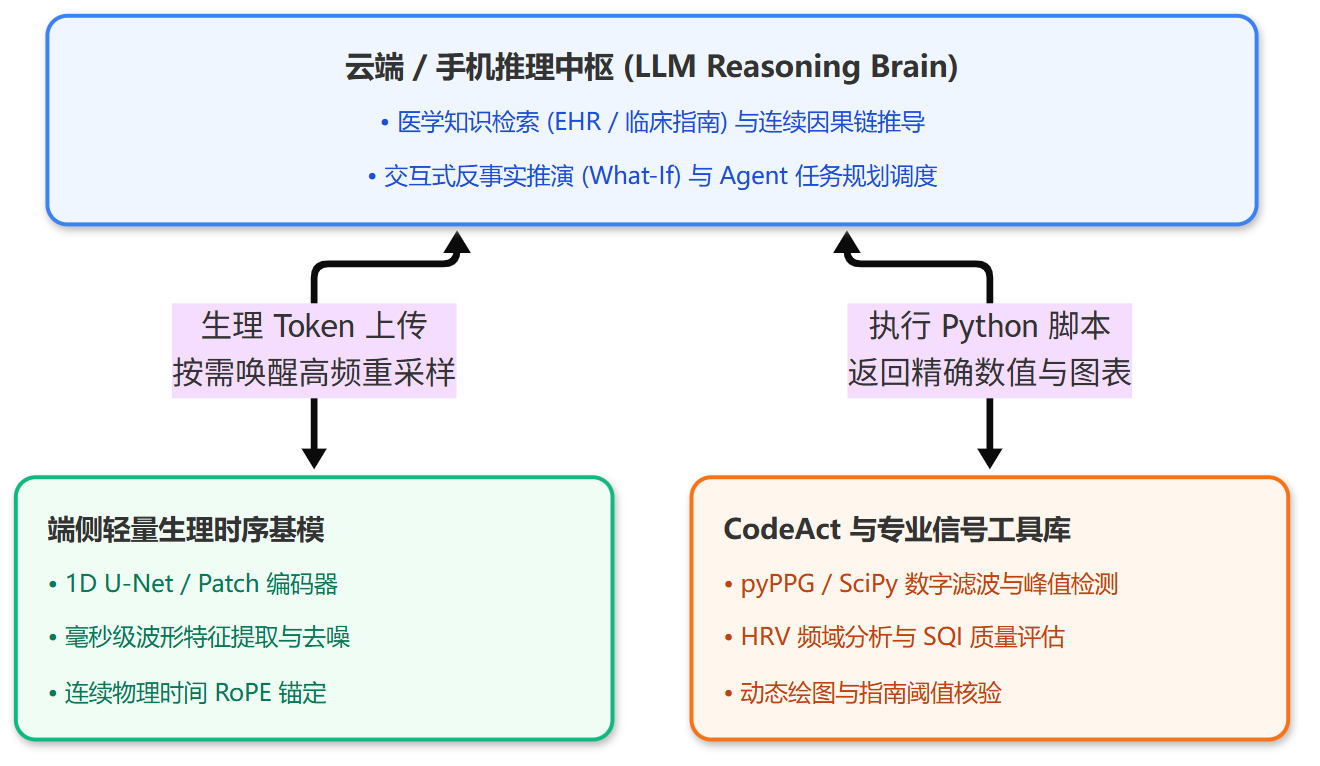
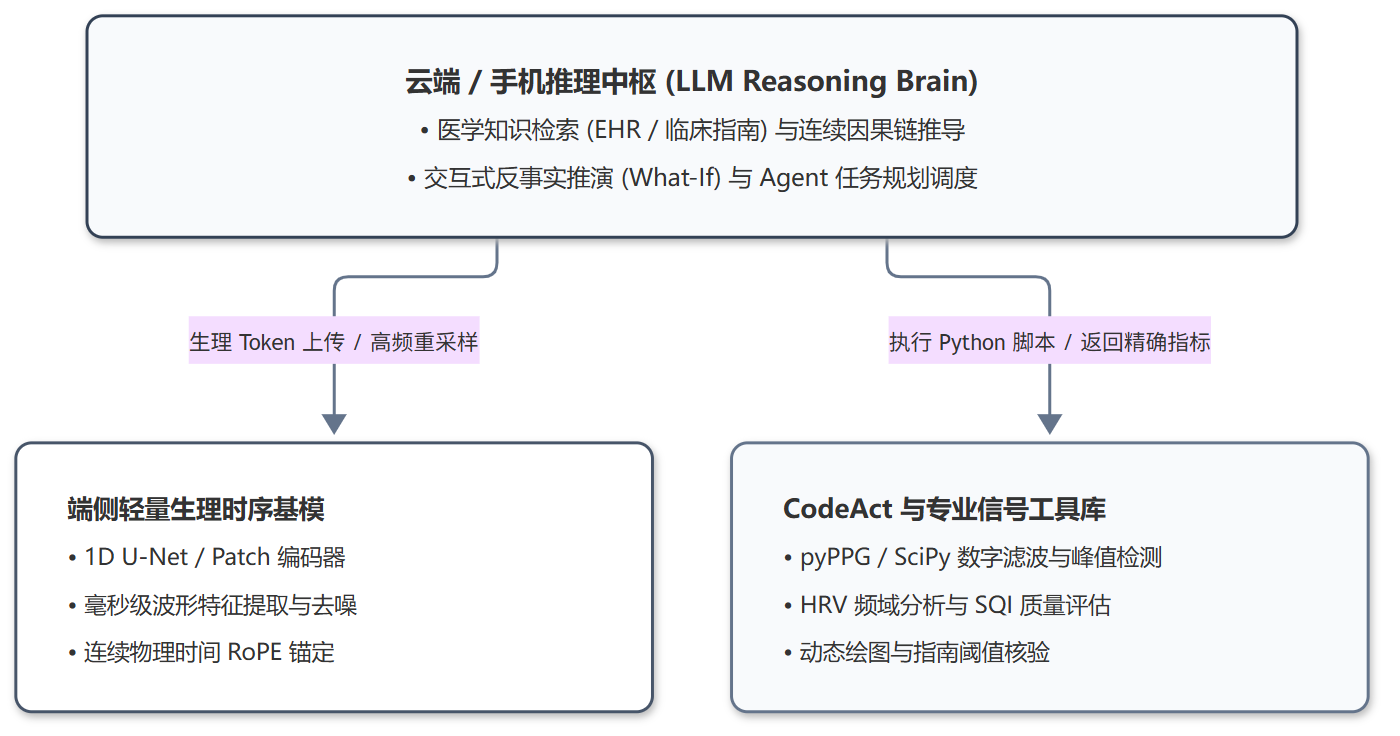
style: 优化全景架构图为学术扁平布局并修正模型资源链接列

Changed region(s): [[0.0, 0.0, 0.9939, 0.9688]]

diff --git a/scripts/render_diagrams.py b/scripts/render_diagrams.py
@@ -1,10 +1,9 @@
 """渲染仓库与博客中的 Mermaid 架构图为 2x Retina PNG。
 
-遵循 AGENTS.md 中的视觉与布局规范：
-- 认知推理 / 顶层层：fill:#EFF6FF, stroke:#3B82F6
-- 端侧感知 / 传感器：fill:#F0FDF4, stroke:#10B981
-- 时序基模 / 生成层：fill:#FFF7ED, stroke:#F97316
-- 数据底座 / 基础设施：fill:#F8FAFC, stroke:#64748B
+遵循学术简明、扁平化与高保真规范：
+- 避免过于花哨的饱和色彩堆叠，采用冷灰色与中性学术配色；
+- 统一样式：rx:8px, ry:8px, stroke-width:1.5px；
+- 拒绝垂直过长布局，保持 4:3 至 16:9 对称宽幅。
 """
 
 from __future__ import annotations
@@ -17,72 +16,142 @@ from src.renderers.diagram_renderer import render_mermaid_string
 
 os.makedirs("assets", exist_ok=True)
 os.makedirs("blogs/images", exist_ok=True)
+os.makedirs("docs/figures/risq", exist_ok=True)
+os.makedirs("docs/figures/health_reasoning", exist_ok=True)
 
-# 1. README 顶层技术分层与模态全景图 (assets/taxonomy_overview.png)
-mmd_taxonomy = """flowchart TB
-    classDef l3Brain fill:#EFF6FF,stroke:#3B82F6,stroke-width:2px,rx:10px,ry:10px;
-    classDef l2Model fill:#FFF7ED,stroke:#F97316,stroke-width:2px,rx:10px,ry:10px;
-    classDef l1Edge fill:#F0FDF4,stroke:#10B981,stroke-width:2px,rx:10px,ry:10px;
-    classDef l0Data fill:#F8FAFC,stroke:#64748B,stroke-width:2px,rx:10px,ry:10px;
+# 1. README 顶层技术架构与模态全景图 (assets/taxonomy_overview.png)
+top_html = (
+    "<div style='width:820px; text-align:center; padding:10px 0; font-family:system-ui, -apple-system, Segoe UI, Roboto, Helvetica, Arial, sans-serif;'>"
+    "<div style='font-size:14px; font-weight:700; color:#0F172A; letter-spacing:0.3px;'>健康认知推理与大语言模型 (Health Reasoning &amp; Multimodal AI)</div>"
+    "<div style='font-size:12px; color:#334155; margin-top:5px; line-height:1.6;'>"
+    "<b>时序-语言跨模态对齐</b>：SensorLM · PPG-LM · TimeBraid &nbsp;|&nbsp; "
+    "<b>临床生理参数物理锚定</b>：GEM (ECG) · CBPM-LLaMA (BP)<br/>"
+    "<b>全域认知评测与系统健康</b>：WearableQA · HEARTS · RisQ"
+    "</div>"
+    "</div>"
+)
 
-    L3["<div style='width:600px; text-align:center; line-height:1.7; font-family:system-ui, -apple-system, Segoe UI, Roboto, sans-serif;'><strong style='font-size:15px; color:#1E3A8A;'>Layer 3 · 健康认知推理、跨模态对齐与全景风险模型</strong><br/><span style='font-size:12px; color:#1D4ED8;'><b>语言对齐与推理</b>：SensorLM · PPG-LM · GEM · CBPM-LLaMA · TimeBraid<br/><b>评测基准与系统健康</b>：WearableQA · HEARTS · RisQ</span></div>"]:::l3Brain
+physio_html = (
+    "<div style='width:510px; text-align:left; padding:10px 14px; font-family:system-ui, -apple-system, Segoe UI, Roboto, Helvetica, Arial, sans-serif;'>"
+    "<div style='font-size:13px; font-weight:700; color:#0F172A; border-bottom:1px solid #CBD5E1; padding-bottom:4px; margin-bottom:8px;'>"
+    "专用生理信号基础模型 (Specialized Physiological FMs)"
+    "</div>"
+    "<div style='font-size:11.5px; line-height:1.65; color:#334155;'>"
+    "• <b>腕戴光电与运动 (PPG / Wearable)</b><br/>"
+    "&nbsp;&nbsp;SensorFM · PaPaGei · Pulse-PPG · HiMAE · OpenMHC · LIMU-BERT<br/>"
+    "• <b>心脏电生理 (ECG)</b><br/>"
+    "&nbsp;&nbsp;ECG-FM · ST-MEM · HeartBEiT · CLOCS<br/>"
+    "• <b>连续动态血糖 (CGM)</b><br/>"
+    "&nbsp;&nbsp;GlucoFM · CGM-JEPA · GluFormer · CGMformer · CGM-LSM<br/>"
+    "• <b>多导睡眠与心肺 (Sleep PSG)</b><br/>"
+    "&nbsp;&nbsp;SleepFM-1/2 · SleepMaMi · U-Sleep<br/>"
+    "• <b>跨模态生理生成与虚拟传感 (Cross-Modal Generative)</b><br/>"
+    "&nbsp;&nbsp;PPGFlowECG (PPG→ECG) · UniCardio (多模态扩散) · xMAE"
+    "</div>"
+    "</div>"
+)
 
-    L2_LEFT["<div style='width:280px; text-align:left; line-height:1.7; font-family:system-ui, -apple-system, Segoe UI, Roboto, sans-serif;'><strong style='font-size:14px; color:#065F46;'>Layer 1 · 腕戴、心电与睡眠基座</strong><br/><span style='font-size:12px; color:#047857;'>• <b>腕戴 PPG</b>：PaPaGei · Pulse-PPG · AnyPPG<br/>• <b>多模态与端侧</b>：SensorFM · HiMAE · OpenMHC<br/>• <b>12 导联心电</b>：ECG-FM · ST-MEM · HeartBEiT<br/>• <b>多导睡眠 PSG</b>：SleepFM-1/2 · SleepMaMi</span></div>"]:::l1Edge
+tsfm_html = (
+    "<div style='width:290px; text-align:left; padding:10px 14px; font-family:system-ui, -apple-system, Segoe UI, Roboto, Helvetica, Arial, sans-serif;'>"
+    "<div style='font-size:13px; font-weight:700; color:#334155; border-bottom:1px solid #CBD5E1; padding-bottom:4px; margin-bottom:8px;'>"
+    "通用时序基础模型 (General TSFM)"
+    "</div>"
+    "<div style='font-size:11.5px; line-height:1.65; color:#475569;'>"
+    "<b>跨界对照与通用特征底座</b><br/>"
+    "• <b>预测基模</b>：TimesFM · Chronos<br/>"
+    "• <b>多任务掩码</b>：MOMENT · MOIRAI<br/>"
+    "• <b>轻量判别</b>：Mantis (端侧分类)<br/>"
+    "• <b>概率预测</b>：Timestral (DHF 解耦)<br/>"
+    "• <b>检索增强</b>：Kumo-Forecast (时序 RAG)<br/>"
+    "• <b>语言重编程</b>：Time-LLM (原型对齐)"
+    "</div>"
+    "</div>"
+)
 
-    L2_RIGHT["<div style='width:280px; text-align:left; line-height:1.7; font-family:system-ui, -apple-system, Segoe UI, Roboto, sans-serif;'><strong style='font-size:14px; color:#9A3412;'>Layer 2 · 血糖、生成与通用时序</strong><br/><span style='font-size:12px; color:#C2410C;'>• <b>CGM 血糖</b>：GlucoFM · GluFormer · CGMformer<br/>• <b>跨模态生成</b>：PPGFlowECG · UniCardio · xMAE<br/>• <b>通用时序</b>：TimesFM · Chronos · MOMENT<br/>• <b>轻量与检索</b>：Timestral · Kumo-Forecast</span></div>"]:::l2Model
+data_html = (
+    "<div style='width:820px; text-align:left; padding:10px 14px; font-family:system-ui, -apple-system, Segoe UI, Roboto, Helvetica, Arial, sans-serif;'>"
+    "<div style='font-size:13px; font-weight:700; color:#0F172A; border-bottom:1px solid #CBD5E1; padding-bottom:4px; margin-bottom:6px;'>"
+    "开放数据集与临床队列底座 (Open Datasets &amp; Clinical Cohorts)"
+    "</div>"
+    "<div style='font-size:11.5px; color:#334155; line-height:1.65;'>"
+    "<b>日常穿戴与动态血糖</b>：OpenMHC · PPG-DaLiA · WESAD · CAS-BP · TROIKA · ShanghaiT1D/T2D · CGMacros · GlucoBench<br/>"
+    "<b>临床监护与人群队列</b>：MC-MED · VitalDB · MIMIC-IV-ECG · PTB-XL · CODE-15% · SHHS · MESA · UK Biobank · All of Us"
+    "</div>"
+    "</div>"
+)
 
-    L0["<div style='width:600px; text-align:center; line-height:1.7; font-family:system-ui, -apple-system, Segoe UI, Roboto, sans-serif;'><strong style='font-size:15px; color:#334155;'>Layer 0 · 开放数据集与临床队列底座</strong><br/><span style='font-size:12px; color:#475569;'><b>穿戴与血糖</b>：OpenMHC · PPG-DaLiA · WESAD · CAS-BP · CGMacros · GlucoBench<br/><b>临床与人群队列</b>：MC-MED · MIMIC-IV-ECG · PTB-XL · CODE-15% · SHHS · UK Biobank</span></div>"]:::l0Data
+def make_label(text: str) -> str:
+    return f"<span style='background:#F8FAFC; color:#475569; padding:2px 6px; border-radius:4px; font-size:11px; border:1px solid #E2E8F0; font-family:system-ui;'>{text}</span>"
 
-    L3 <==>|"生理语义锚定<br/>多尺度表征输入"| L2_LEFT
-    L3 <==>|"动力学先验约束<br/>反事实情景推演"| L2_RIGHT
-    L2_LEFT ==>|"自监督预训练<br/>下游探针评测"| L0
-    L2_RIGHT ==>|"跨模态配对训练<br/>零样本基准验证"| L0
+mmd_taxonomy = f"""flowchart TB
+    classDef topBrain fill:#F8FAFC,stroke:#334155,stroke-width:1.5px,rx:8px,ry:8px;
+    classDef physioCol fill:#FFFFFF,stroke:#475569,stroke-width:1.5px,rx:8px,ry:8px;
+    classDef tsfmCol fill:#F8FAFC,stroke:#64748B,stroke-width:1.5px,stroke-dasharray: 4 2,rx:8px,ry:8px;
+    classDef bottomData fill:#F8FAFC,stroke:#334155,stroke-width:1.5px,rx:8px,ry:8px;
+
+    REASONING["{top_html}"]:::topBrain
+    PHYSIO["{physio_html}"]:::physioCol
+    TSFM["{tsfm_html}"]:::tsfmCol
+    DATA["{data_html}"]:::bottomData
+
+    REASONING ==>|"{make_label('时序-语言跨模态对齐与临床决策')}"| PHYSIO
+    REASONING ==>|"{make_label('通用推理与假设性情景推演')}"| TSFM
+    PHYSIO ==>|"{make_label('自监督预训练与生理表征评测')}"| DATA
+    TSFM ==>|"{make_label('通用时序模式预训练与跨域验证')}"| DATA
+
+    linkStyle default stroke:#64748B,stroke-width:1.5px;
 """
 
 # 2. 博客 2 图 10：端云分层协同的时序-语言健康 Agent 架构 (blogs/images/edge_cloud_health_agent.png)
 mmd_edge_cloud = """flowchart TB
-    classDef cloudBrain fill:#EFF6FF,stroke:#3B82F6,stroke-width:2px,rx:10px,ry:10px;
-    classDef edgeSensor fill:#F0FDF4,stroke:#10B981,stroke-width:2px,rx:10px,ry:10px;
-    classDef toolBox fill:#FFF7ED,stroke:#F97316,stroke-width:2px,rx:10px,ry:10px;
+    classDef cloudBrain fill:#F8FAFC,stroke:#334155,stroke-width:1.5px,rx:8px,ry:8px;
+    classDef edgeSensor fill:#FFFFFF,stroke:#475569,stroke-width:1.5px,rx:8px,ry:8px;
+    classDef toolBox fill:#F8FAFC,stroke:#64748B,stroke-width:1.5px,rx:8px,ry:8px;
 
-    BRAIN["<div style='width:580px; text-align:center; line-height:1.7; font-family:system-ui, -apple-system, Segoe UI, Roboto, sans-serif;'><strong style='font-size:15px; color:#1E3A8A;'>云端 / 手机推理中枢 (LLM Reasoning Brain)</strong><br/><span style='font-size:12px; color:#1D4ED8;'>• 医学知识检索 (EHR / 临床指南) 与连续因果链推导<br/>• 交互式反事实推演 (What-If) 与 Agent 任务规划调度</span></div>"]:::cloudBrain
+    BRAIN["<div style='width:580px; text-align:center; padding:8px 0; font-family:system-ui, -apple-system, Segoe UI, Roboto, sans-serif;'><strong style='font-size:14px; color:#0F172A;'>云端 / 手机推理中枢 (LLM Reasoning Brain)</strong><br/><span style='font-size:12px; color:#334155; line-height:1.6;'>• 医学知识检索 (EHR / 临床指南) 与连续因果链推导<br/>• 交互式反事实推演 (What-If) 与 Agent 任务规划调度</span></div>"]:::cloudBrain
 
-    EDGE["<div style='width:270px; text-align:left; line-height:1.7; font-family:system-ui, -apple-system, Segoe UI, Roboto, sans-serif;'><strong style='font-size:14px; color:#065F46;'>端侧轻量生理时序基模</strong><br/><span style='font-size:12px; color:#047857;'>• 1D U-Net / Patch 编码器<br/>• 毫秒级波形特征提取与去噪<br/>• 连续物理时间 RoPE 锚定</span></div>"]:::edgeSensor
+    EDGE["<div style='width:270px; text-align:left; padding:8px 10px; font-family:system-ui, -apple-system, Segoe UI, Roboto, sans-serif;'><strong style='font-size:13px; color:#0F172A;'>端侧轻量生理时序基模</strong><br/><span style='font-size:11.5px; color:#334155; line-height:1.6;'>• 1D U-Net / Patch 编码器<br/>• 毫秒级波形特征提取与去噪<br/>• 连续物理时间 RoPE 锚定</span></div>"]:::edgeSensor
 
-    TOOLS["<div style='width:270px; text-align:left; line-height:1.7; font-family:system-ui, -apple-system, Segoe UI, Roboto, sans-serif;'><strong style='font-size:14px; color:#9A3412;'>CodeAct 与专业信号工具库</strong><br/><span style='font-size:12px; color:#C2410C;'>• pyPPG / SciPy 数字滤波与峰值检测<br/>• HRV 频域分析与 SQI 质量评估<br/>• 动态绘图与指南阈值核验</span></div>"]:::toolBox
+    TOOLS["<div style='width:270px; text-align:left; padding:8px 10px; font-family:system-ui, -apple-system, Segoe UI, Roboto, sans-serif;'><strong style='font-size:13px; color:#334155;'>CodeAct 与专业信号工具库</strong><br/><span style='font-size:11.5px; color:#475569; line-height:1.6;'>• pyPPG / SciPy 数字滤波与峰值检测<br/>• HRV 频域分析与 SQI 质量评估<br/>• 动态绘图与指南阈值核验</span></div>"]:::toolBox
 
-    BRAIN <==>|"生理 Token 上传<br/>按需唤醒高频重采样"| EDGE
-    BRAIN <==>|"执行 Python 脚本<br/>返回精确数值与图表"| TOOLS
+    BRAIN ==>|"<span style='background:#F8FAFC; color:#475569; padding:2px 4px; font-size:11px; border:1px solid #E2E8F0; border-radius:4px;'>生理 Token 上传 / 高频重采样</span>"| EDGE
+    BRAIN ==>|"<span style='background:#F8FAFC; color:#475569; padding:2px 4px; font-size:11px; border:1px solid #E2E8F0; border-radius:4px;'>执行 Python 脚本 / 返回精确指标</span>"| TOOLS
+
+    linkStyle default stroke:#64748B,stroke-width:1.5px;
 """
 
 # 3. RisQ 多模态共生示意图 (docs/figures/risq/multimodal_coexistence.png)
 mmd_risq = """flowchart LR
-    classDef edgeBox fill:#F0FDF4,stroke:#10B981,stroke-width:2px,rx:10px,ry:10px;
-    classDef centerBox fill:#EFF6FF,stroke:#3B82F6,stroke-width:2px,rx:10px,ry:10px;
-    classDef staticBox fill:#F8FAFC,stroke:#64748B,stroke-width:2px,rx:10px,ry:10px;
+    classDef edgeBox fill:#FFFFFF,stroke:#475569,stroke-width:1.5px,rx:8px,ry:8px;
+    classDef centerBox fill:#F8FAFC,stroke:#334155,stroke-width:1.5px,rx:8px,ry:8px;
+    classDef staticBox fill:#F8FAFC,stroke:#64748B,stroke-width:1.5px,rx:8px,ry:8px;
 
-    EDGE["<div style='width:250px; text-align:left; line-height:1.6;'><strong style='color:#065F46;'>动态穿戴时序感知</strong><br/>• 智能手表与体动仪传感器<br/>• 提取连续生理特征与昼夜节律</div>"]:::edgeBox
-    STATIC["<div style='width:250px; text-align:left; line-height:1.6;'><strong style='color:#334155;'>静态组学与临床档案</strong><br/>• 全基因组变异与生化化验<br/>• 长期住院与就诊 ICD-10 记录</div>"]:::staticBox
-    RISQ["<div style='width:250px; text-align:left; line-height:1.6;'><strong style='color:#1E3A8A;'>系统级多模态健康模型</strong><br/>• 统一跨模态潜表征空间<br/>• 自然语言 Prompt 零样本风险推演</div>"]:::centerBox
+    EDGE["<div style='width:240px; text-align:left; padding:6px 8px; font-family:system-ui;'><strong style='font-size:13px; color:#0F172A;'>动态穿戴时序感知</strong><br/><span style='font-size:11.5px; color:#334155; line-height:1.6;'>• 智能手表与体动仪传感器<br/>• 提取连续生理特征与昼夜节律</span></div>"]:::edgeBox
+    STATIC["<div style='width:240px; text-align:left; padding:6px 8px; font-family:system-ui;'><strong style='font-size:13px; color:#334155;'>静态组学与临床档案</strong><br/><span style='font-size:11.5px; color:#475569; line-height:1.6;'>• 全基因组变异与生化化验<br/>• 长期住院与就诊 ICD-10 记录</span></div>"]:::staticBox
+    RISQ["<div style='width:240px; text-align:left; padding:6px 8px; font-family:system-ui;'><strong style='font-size:13px; color:#0F172A;'>系统级多模态健康模型</strong><br/><span style='font-size:11.5px; color:#334155; line-height:1.6;'>• 统一跨模态潜表征空间<br/>• 自然语言 Prompt 零样本风险推演</span></div>"]:::centerBox
 
-    EDGE ==>|"高频动态生理输入"| RISQ
-    STATIC ==>|"先天遗传与临床基线"| RISQ
+    EDGE ==>|"<span style='background:#F8FAFC; color:#475569; padding:2px 4px; font-size:11px; border:1px solid #E2E8F0; border-radius:4px;'>高频动态生理输入</span>"| RISQ
+    STATIC ==>|"<span style='background:#F8FAFC; color:#475569; padding:2px 4px; font-size:11px; border:1px solid #E2E8F0; border-radius:4px;'>先天遗传与临床基线</span>"| RISQ
+
+    linkStyle default stroke:#64748B,stroke-width:1.5px;
 """
 
 # 4. 健康推理三层分工体系 (docs/figures/health_reasoning/hierarchical_ai_stack.png)
 mmd_hierarchical = """flowchart TB
-    classDef l3Brain fill:#EFF6FF,stroke:#3B82F6,stroke-width:2px,rx:10px,ry:10px;
-    classDef l2Tools fill:#FFF7ED,stroke:#F97316,stroke-width:2px,rx:10px,ry:10px;
-    classDef l1Edge fill:#F0FDF4,stroke:#10B981,stroke-width:2px,rx:10px,ry:10px;
+    classDef l3Brain fill:#F8FAFC,stroke:#334155,stroke-width:1.5px,rx:8px,ry:8px;
+    classDef l2Tools fill:#F8FAFC,stroke:#64748B,stroke-width:1.5px,rx:8px,ry:8px;
+    classDef l1Edge fill:#FFFFFF,stroke:#475569,stroke-width:1.5px,rx:8px,ry:8px;
 
-    L3["<div style='width:560px; text-align:center; line-height:1.6;'><strong style='font-size:15px; color:#1E3A8A;'>顶层 · 认知与健康决策中枢 (Cognitive & Reasoning Layer)</strong><br/><span style='font-size:12px; color:#1D4ED8;'>• 健康推理 Agent (WearableQA / 临床指南循证库)<br/>• 跨模态健康画像、纵向病理因果推演与前瞻干预建议</span></div>"]:::l3Brain
+    L3["<div style='width:560px; text-align:center; padding:8px 0; font-family:system-ui;'><strong style='font-size:14px; color:#0F172A;'>顶层 · 认知与健康决策中枢 (Cognitive &amp; Reasoning Layer)</strong><br/><span style='font-size:12px; color:#334155; line-height:1.6;'>• 健康推理 Agent (WearableQA / 临床指南循证库)<br/>• 跨模态健康画像、纵向病理因果推演与前瞻干预建议</span></div>"]:::l3Brain
 
-    L2["<div style='width:560px; text-align:center; line-height:1.6;'><strong style='font-size:14px; color:#9A3412;'>中层 · 神经符号与工具调度执行层 (Neuro-Symbolic & CodeAct Layer)</strong><br/><span style='font-size:12px; color:#C2410C;'>• Python 科学计算运行时 (SciPy / NeuroKit2 / BioSPPy)<br/>• 动态高精度数值积分、假设检验与频域功率谱解算</span></div>"]:::l2Tools
+    L2["<div style='width:560px; text-align:center; padding:8px 0; font-family:system-ui;'><strong style='font-size:13px; color:#334155;'>中层 · 神经符号与工具调度执行层 (Neuro-Symbolic &amp; CodeAct Layer)</strong><br/><span style='font-size:12px; color:#475569; line-height:1.6;'>• Python 科学计算运行时 (SciPy / NeuroKit2 / BioSPPy)<br/>• 动态高精度数值积分、假设检验与频域功率谱解算</span></div>"]:::l2Tools
 
-    L1["<div style='width:560px; text-align:center; line-height:1.6;'><strong style='font-size:14px; color:#065F46;'>底层 · 微观高频物理感知与生理基座 (Edge Sensor Foundation Models)</strong><br/><span style='font-size:12px; color:#047857;'>• 专用时序基座: SensorFM / PaPaGei / UniCardio / SleepFM / GlucoFM<br/>• 毫秒级滤波去噪、运动伪影抑制与连续潜表征抽取</span></div>"]:::l1Edge
+    L1["<div style='width:560px; text-align:center; padding:8px 0; font-family:system-ui;'><strong style='font-size:13px; color:#0F172A;'>底层 · 微观高频物理感知与生理基座 (Edge Sensor Foundation Models)</strong><br/><span style='font-size:12px; color:#334155; line-height:1.6;'>• 专用时序基座: SensorFM / PaPaGei / UniCardio / SleepFM / GlucoFM<br/>• 毫秒级滤波去噪、运动伪影抑制与连续潜表征抽取</span></div>"]:::l1Edge
 
-    L3 <==>|"意图解析与计算指令派发<br/>返回高可靠结构化计算结果"| L2
-    L2 <==>|"提取生理指标特征<br/>按需调度波形计算"| L1
+    L3 ==>|"<span style='background:#F8FAFC; color:#475569; padding:2px 4px; font-size:11px; border:1px solid #E2E8F0; border-radius:4px;'>意图解析与计算指令派发</span>"| L2
+    L2 ==>|"<span style='background:#F8FAFC; color:#475569; padding:2px 4px; font-size:11px; border:1px solid #E2E8F0; border-radius:4px;'>提取生理指标特征 / 调度波形计算</span>"| L1
+
+    linkStyle default stroke:#64748B,stroke-width:1.5px;
 """
 
 if __name__ == "__main__":

diff --git a/scripts/build_tables.py b/scripts/build_tables.py
@@ -51,14 +51,30 @@ def replace_block(text: str, marker: str, content: str) -> str:
 def format_model_resources(m: dict) -> str:
     links: list[str] = []
     if m.get("paper"):
-        links.append(f"[论文]({m['paper']})")
+        paper_label = (
+            "报告"
+            if any(k in m["paper"] for k in ["mistral.ai", "developer.nvidia.com"])
+            else "论文"
+        )
+        links.append(f"[{paper_label}]({m['paper']})")
+
+    open_parts: list[str] = []
     if m.get("code"):
-        links.append(f"[代码]({m['code']})")
+        open_parts.append(f"[代码]({m['code']})")
     if m.get("weights"):
-        links.append(f"[权重]({m['weights']})")
+        open_parts.append(f"[权重]({m['weights']})")
     elif m.get("access") == "gated":
-        links.append("权重需申请")
-    return " · ".join(links) if links else "未公开"
+        open_parts.append("权重需申请")
+
+    if open_parts:
+        links.extend(open_parts)
+    else:
+        if m.get("access") == "gated":
+            links.append("需申请")
+        else:
+            links.append("闭源")
+
+    return " · ".join(links)
 
 
 def build_recent_table(models: list[dict], limit: int = 10) -> str:
@@ -85,7 +101,7 @@ def build_recent_table(models: list[dict], limit: int = 10) -> str:
 
 def build_models_table(models: list[dict]) -> str:
     lines = [
-        "| 模型 / 基准 | 机构 | 发表 | 主要模态 | 方法与参数规模 | 预训练 / 评测规模 | 开源资源 | 收录日期 |",
+        "| 模型 / 基准 | 机构 | 发表 | 主要模态 | 方法与参数规模 | 预训练 / 评测规模 | 资源链接 | 收录日期 |",
         "| :--- | :--- | :--- | :--- | :--- | :--- | :--- | :--- |",
     ]
     for m in models:

diff --git a/README.md b/README.md
@@ -86,16 +86,16 @@
 
 | 收录日期 | 名称 | 机构 | 发表 | 模态 | 简介与资源 |
 | :--- | :--- | :--- | :--- | :--- | :--- |
-| 2026-10-26 | [**Timestral**](docs/models/general_tsfm.md#timestral) | Mistral AI | 2026 | 通用单/多变量时序 | 解耦预测跨度 (DHF) + 21 分位数概率预测（大规模多领域时序语料） · [代码](https://github.com/mistralai/timestral) · [权重](https://huggingface.co/mistralai/Timestral-209M) |
-| 2026-10-26 | [**Kumo-Forecast**](docs/models/general_tsfm.md#kumo-forecast) | NVIDIA | 2026 | 通用多变量时序 / 结构化数据 | 冻结 MOMENT + DARR 时序检索增强与原生可解释层（企业级多变量时序与结构化数据集） · [代码](https://github.com/NVIDIA/Kumo-TS) · [权重](https://huggingface.co/nvidia/Kumo-Forecast) |
-| 2026-10-14 | [**Review of Open FM for ECG & PPG**](docs/models/ecg_models.md#1-领域综述导读心电与脉搏波开源基础模型及数据集全景) | MIT / SNU / Yonsei | npj Digital Medicine 2026 | ECG + PPG | 综述与开源生态绘制（覆盖数十个公开基准） · [论文](https://doi.org/10.1038/s41746-026-03101-7) |
+| 2026-10-26 | [**Timestral**](docs/models/general_tsfm.md#timestral) | Mistral AI | 2026 | 通用单/多变量时序 | 解耦预测跨度 (DHF) + 21 分位数概率预测（大规模多领域时序语料） · [报告](https://mistral.ai/news/timestral/) · [代码](https://github.com/mistralai/timestral) · [权重](https://huggingface.co/mistralai/Timestral-209M) |
+| 2026-10-26 | [**Kumo-Forecast**](docs/models/general_tsfm.md#kumo-forecast) | NVIDIA | 2026 | 通用多变量时序 / 结构化数据 | 冻结 MOMENT + DARR 时序检索增强与原生可解释层（企业级多变量时序与结构化数据集） · [报告](https://developer.nvidia.com/blog/advancing-tabular-and-time-series-ai-with-nvidia-kumo/) · [代码](https://github.com/NVIDIA/Kumo-TS) · [权重](https://huggingface.co/nvidia/Kumo-Forecast) |
+| 2026-10-14 | [**Review of Open FM for ECG & PPG**](docs/models/ecg_models.md#1-领域综述导读心电与脉搏波开源基础模型及数据集全景) | MIT / SNU / Yonsei | npj Digital Medicine 2026 | ECG + PPG | 综述与开源生态绘制（覆盖数十个公开基准） · [论文](https://doi.org/10.1038/s41746-026-03101-7) · 闭源 |
 | 2026-10-14 | [**ECG-FM**](docs/models/ecg_models.md#ecg-fm) | 多伦多大学 / UHN / Vector | arXiv 2024 | 12 导联 ECG | 掩码重构 + 对比学习（约 150 万条心电 (MIMIC-IV + UHN)） · [论文](https://arxiv.org/abs/2407.13576) · [代码](https://github.com/kadenmckeen/ecg-fm) · [权重](https://huggingface.co/kadenmckeen/ecg-fm) |
 | 2026-10-14 | [**ST-MEM**](docs/models/ecg_models.md#st-mem) | VUNO Inc. | ICLR 2024 | 12 导联 ECG | 时空解耦 Patch-MAE（约 80 万例 12 导联心电） · [论文](https://arxiv.org/abs/2402.04631) · [代码](https://github.com/vuno-inc/ST-MEM) · [权重](https://github.com/vuno-inc/ST-MEM) |
 | 2026-10-14 | [**HeartBEiT**](docs/models/ecg_models.md#heartbeit) | Mila / 蒙特利尔大学 | arXiv 2023 | 12 导联 ECG | 离散代码本掩码建模（MIMIC-IV-ECG） · [论文](https://arxiv.org/abs/2306.07920) · [代码](https://github.com/hsd1503/HeartBEiT) |
 | 2026-10-14 | [**CLOCS**](docs/models/ecg_models.md#clocs) | 牛津大学 | NeurIPS 2020 | 多导联 ECG | 时空多导联对比学习（PhysioNet 2017 + Chapman） · [论文](https://proceedings.neurips.cc/paper/2020/hash/da65ae7d09f25745b85e0546cb7ee3b4-Abstract.html) · [代码](https://github.com/danikiyasseh/CLOCS) |
-| 2026-10-12 | [**PPG-LM**](docs/models/smartwatch_models.md#ppg-lm) | Emory / UCLA / Google / Stanford | arXiv 2026 | PPG 波形 + 多层级临床自然语言 | 两阶段对齐 (CoCa 对比/生成 + 连续物理时间 RoPE)（73,700 小时 (MC-MED 队列 36,430 名急诊患者)） · [论文](https://arxiv.org/abs/2609.33516) |
+| 2026-10-12 | [**PPG-LM**](docs/models/smartwatch_models.md#ppg-lm) | Emory / UCLA / Google / Stanford | arXiv 2026 | PPG 波形 + 多层级临床自然语言 | 两阶段对齐 (CoCa 对比/生成 + 连续物理时间 RoPE)（73,700 小时 (MC-MED 队列 36,430 名急诊患者)） · [论文](https://arxiv.org/abs/2609.33516) · 闭源 |
 | 2026-10-12 | [**SleepFM / SleepFM-2**](docs/models/sleep_models.md#sleepfm) | 斯坦福大学 / DTU / BrainCapture | Nat Med 2024 / arXiv 2026 | 多导睡眠监测 (EEG, ECG, PPG, Resp, EMG) | 留一对比学习 (LOO-CL) + 局部 MAE 重构（200+ 万小时 / 23.5 万受试者） · [论文](https://arxiv.org/abs/2609.06849) · [代码](https://github.com/zou-group/sleepfm-v2-public) · [权重](https://github.com/zou-group/sleepfm-v2-public) |
-| 2026-10-12 | [**WearableQA**](docs/models/health_reasoning_llms.md#wearableqa) | Meta AI / Reality Labs | arXiv 2026 | 长程多模态聚合指标 (16 维时序 + 17 维化验) | 解耦评测基准 (数据计算推理 + 健康机制推理)（200 人 × 500 天长程穿戴数据 (4,084 道推理题)） · [论文](https://arxiv.org/abs/2609.05405) |
+| 2026-10-12 | [**WearableQA**](docs/models/health_reasoning_llms.md#wearableqa) | Meta AI / Reality Labs | arXiv 2026 | 长程多模态聚合指标 (16 维时序 + 17 维化验) | 解耦评测基准 (数据计算推理 + 健康机制推理)（200 人 × 500 天长程穿戴数据 (4,084 道推理题)） · [论文](https://arxiv.org/abs/2609.05405) · [代码](https://github.com/facebookresearch/WearableQA) · [权重](https://huggingface.co/datasets/facebook/WearableQA) |
 
 <!-- END:RECENT_UPDATES -->
 
@@ -107,24 +107,24 @@
 
 <!-- BEGIN:MODELS_TABLE -->
 
-| 模型 / 基准 | 机构 | 发表 | 主要模态 | 方法与参数规模 | 预训练 / 评测规模 | 开源资源 | 收录日期 |
+| 模型 / 基准 | 机构 | 发表 | 主要模态 | 方法与参数规模 | 预训练 / 评测规模 | 资源链接 | 收录日期 |
 | :--- | :--- | :--- | :--- | :--- | :--- | :--- | :--- |
-| [**SensorFM**](docs/models/smartwatch_models.md#sensorfm) | Google Research / Fitbit Health AI | arXiv 2026 | 腕部多模态 (PPG, ACC, EDA, 皮温, 气压计) | 统一物理时间分块 + 掩码多模态建模与跨模态填补（大模型级） | 1 万亿分钟 (500 万真实用户) | [论文](https://arxiv.org/abs/2605.22759) | 2026-10-12 |
+| [**SensorFM**](docs/models/smartwatch_models.md#sensorfm) | Google Research / Fitbit Health AI | arXiv 2026 | 腕部多模态 (PPG, ACC, EDA, 皮温, 气压计) | 统一物理时间分块 + 掩码多模态建模与跨模态填补（大模型级） | 1 万亿分钟 (500 万真实用户) | [论文](https://arxiv.org/abs/2605.22759) · 闭源 | 2026-10-12 |
 | [**PaPaGei**](docs/models/smartwatch_models.md#papagei) | Nokia Bell Labs / 剑桥大学 / 达特茅斯学院 | ICLR 2025 | 单通道 PPG (光电脉搏波) | 形态感知对比学习 + ResNet1D-MoE（约 1.5M） | 5.7 万小时 (10 个公开数据集) | [论文](https://arxiv.org/abs/2410.20542) · [代码](https://github.com/Nokia-Bell-Labs/papagei-foundation-model) · [权重](https://zenodo.org/records/13983110) | 2026-10-12 |
-| [**Pulse-PPG**](docs/models/smartwatch_models.md#pulse-ppg) | 孟菲斯大学 / UIUC | UbiComp 2025 | 腕部高噪 PPG | 相对对比学习 (RelCon) + 大核 1D-ResNet（约 2M） | 5.5 万小时 (120 人连续 100 天野外生活数据) | [代码](https://github.com/maxxu05/pulseppg) · [权重](https://zenodo.org/records/10892019) | 2026-10-12 |
-| [**xMAE**](docs/models/smartwatch_models.md#xmae) | Samsung Research America / UCLA | ICML 2024 | PPG + ECG (跨模态虚拟传感) | 跨模态掩码自编码 (Cross-Modal MAE)（紧凑级） | 9,400 小时同步配对 ECG-PPG 数据 | 未公开 | 2026-10-12 |
+| [**Pulse-PPG**](docs/models/smartwatch_models.md#pulse-ppg) | 孟菲斯大学 / UIUC | UbiComp 2025 | 腕部高噪 PPG | 相对对比学习 (RelCon) + 大核 1D-ResNet（约 2M） | 5.5 万小时 (120 人连续 100 天野外生活数据) | [论文](https://arxiv.org/abs/2410.08375) · [代码](https://github.com/maxxu05/pulseppg) · [权重](https://zenodo.org/records/10892019) | 2026-10-12 |
+| [**xMAE**](docs/models/smartwatch_models.md#xmae) | Samsung Research America / UCLA | ICML 2024 | PPG + ECG (跨模态虚拟传感) | 跨模态掩码自编码 (Cross-Modal MAE)（紧凑级） | 9,400 小时同步配对 ECG-PPG 数据 | [论文](https://openreview.net/forum?id=VjI72R3gJq) · 闭源 | 2026-10-12 |
 | [**HiMAE**](docs/models/smartwatch_models.md#himae) | Samsung Research America / UCLA | ICLR 2026 | 单通道手腕绿光 PPG | 5 级 1D 卷积 U-Net + 混合分块掩码自编码 (80% MAE)（0.31M (编码器)） | 8 万小时 (47,644 名用户真实手表数据) | [论文](https://arxiv.org/abs/2510.25785) · [代码](https://github.com/Simonlee711/HiMAE) · [权重](https://github.com/Simonlee711/HiMAE) | 2026-10-12 |
 | [**UniCardio**](docs/models/smartwatch_models.md#unicardio) | 清华大学 / 安贞医院 / 帝国理工学院 | Nature Machine Intelligence 2025/2026 | PPG + ECG + 动脉血压 (BP) | 多模态扩散 DiT + 任务特异性掩码与持续学习（骨干共享 + 0.3M/模态增量） | 339 小时高精度三模态全时程波形 | [论文](https://doi.org/10.1038/s42256-025-01147-y) · [代码](https://github.com/chen-zehua/UniCardio) | 2026-10-12 |
 | [**PPGFlowECG**](docs/models/smartwatch_models.md#ppgflowecg) | 北京大学健康医疗大数据国家研究院 | arXiv 2025-2026 | PPG → 诊断级 ECG | CardioAlign 潜空间对齐 + 潜空间整流流 (Rectified Flow)（紧凑级 (1-4 步 ODE 快速采样)） | MC-MED (11.8 万人 / 1000 万对急诊样本) | [论文](https://arxiv.org/abs/2502.14856) · [代码](https://github.com/PKUDigitalHealth/PPGFlowECG) | 2026-10-12 |
 | [**AnyPPG**](docs/models/smartwatch_models.md#anyppg) | 北京大学健康医疗大数据国家研究院 | ACM SIGKDD 2026 | 单通道 PPG (心电引导) | 心电引导跨模态对比预训练 (ECG-Guided InfoNCE)（5.85M (单分支)） | 100,000+ 小时同步配对数据 (MC-MED, MIMIC 等) | [论文](https://arxiv.org/abs/2511.01747) · [代码](https://github.com/Ngk03/AnyPPG) | 2026-10-12 |
-| [**PPG-Distill**](docs/models/smartwatch_models.md#ppg-distill) | Emory University | 2025 | 腕部 PPG | 预测级 + 特征级 + 形态节律三级多尺度蒸馏（紧凑 1D 学生网络 (内存降低 19x)） | 多中心公开穿戴语料 | [代码](https://github.com/LingFengGold/PPG-Distill) | 2026-10-12 |
-| [**Apple PpgAge**](docs/models/smartwatch_models.md#ppgage) | Apple Health | Nature Medicine 2025/2026 | 腕戴日常 PPG | 深度时序表征与血管生理年龄预测 (PPG Age Gap)（工业级） | Apple Health Study (213,593 名真实佩戴者) | 未公开 | 2026-10-12 |
+| [**PPG-Distill**](docs/models/smartwatch_models.md#ppg-distill) | Emory University | 2025 | 腕部 PPG | 预测级 + 特征级 + 形态节律三级多尺度蒸馏（紧凑 1D 学生网络 (内存降低 19x)） | 多中心公开穿戴语料 | [论文](https://arxiv.org/abs/2509.19215) · [代码](https://github.com/LingFengGold/PPG-Distill) | 2026-10-12 |
+| [**Apple PpgAge**](docs/models/smartwatch_models.md#ppgage) | Apple Health | Nature Medicine 2025/2026 | 腕戴日常 PPG | 深度时序表征与血管生理年龄预测 (PPG Age Gap)（工业级） | Apple Health Study (213,593 名真实佩戴者) | [论文](https://doi.org/10.1038/s41467-025-64275-4) · 闭源 | 2026-10-12 |
 | [**OpenMHC**](docs/models/smartwatch_models.md#openmhc) | 斯坦福大学医学院 (Euan Ashley Lab) / 帝国理工 | arXiv 2026 | 19 通道穿戴时序 + 169 维自述健康变量 | 统一基准赛道 (预测/插补/外推) + WBM/LSM 开源复现（统一基准） | 6,700+ 万小时 (11,894 名受试者 13 年纵向记录) | [论文](https://arxiv.org/abs/2607.16235) · [代码](https://github.com/AshleyLab/OpenMHC) · [权重](https://huggingface.co/MyHeartCounts) | 2026-10-12 |
-| [**PPG-LM**](docs/models/smartwatch_models.md#ppg-lm) | Emory / UCLA / Google / Stanford | arXiv 2026 | PPG 波形 + 多层级临床自然语言 | 两阶段对齐 (CoCa 对比/生成 + 连续物理时间 RoPE)（12.7M (波形塔) + 8 层因果语言塔） | 73,700 小时 (MC-MED 队列 36,430 名急诊患者) | [论文](https://arxiv.org/abs/2609.33516) | 2026-10-12 |
+| [**PPG-LM**](docs/models/smartwatch_models.md#ppg-lm) | Emory / UCLA / Google / Stanford | arXiv 2026 | PPG 波形 + 多层级临床自然语言 | 两阶段对齐 (CoCa 对比/生成 + 连续物理时间 RoPE)（12.7M (波形塔) + 8 层因果语言塔） | 73,700 小时 (MC-MED 队列 36,430 名急诊患者) | [论文](https://arxiv.org/abs/2609.33516) · 闭源 | 2026-10-12 |
 | [**SensorLM**](docs/models/smartwatch_models.md#sensorlm) | Google Research / Google DeepMind | NeurIPS 2025 | 5 维传感器 (PPG, ACC, EDA, 皮温, 气压计) + 文本 | ViT-2D Patch + CoCa 对比与多模态自回归解码（工业级） | 5,970 万小时 (103,000+ 名真实用户) | [论文](https://arxiv.org/abs/2506.09108) · [代码](https://github.com/Google-Health/consumer-health-research/tree/main/sensorlm) | 2026-10-12 |
 | [**LIMU-BERT**](docs/models/smartwatch_models.md#limu-bert) | 南洋理工大学 (NTU) | ACM SenSys 2021 | 手腕三轴 ACC + 陀螺仪 | 掩码传感器建模 (Masked Sensor Modeling)（紧凑级） | 公开 IMU 运动数据集 | [论文](https://dl.acm.org/doi/10.1145/3485730.3485938) · [代码](https://github.com/dapowan/LIMU-BERT-Public) · [权重](https://github.com/dapowan/LIMU-BERT-Public) | 2026-10-12 |
 | [**GlucoFM**](docs/models/cgm_models.md#glucofm) | Google Research / UNSW | arXiv 2026 | CGM 血糖 | 双流 JEPA 潜空间预测（0.72M） | 477 人 (10.9 万小时) | [论文](https://arxiv.org/abs/2605.30865) · 权重需申请 | 2026-09-08 |
-| [**CGM-JEPA**](docs/models/cgm_models.md#cgm-jepa) | CRUISE Lab | 2025 | CGM 血糖 | 潜空间 JEPA 预测（约 0.5M） | 228 人 (开源重训基座) | [代码](https://huggingface.co/CRUISEResearchGroup/CGM-JEPA) · [权重](https://huggingface.co/CRUISEResearchGroup/CGM-JEPA) | 2026-09-09 |
+| [**CGM-JEPA**](docs/models/cgm_models.md#cgm-jepa) | CRUISE Lab | 2025 | CGM 血糖 | 潜空间 JEPA 预测（约 0.5M） | 228 人 (开源重训基座) | [论文](https://arxiv.org/abs/2605.00933) · [代码](https://github.com/cruiseresearchgroup/CGM-JEPA) · [权重](https://huggingface.co/CRUISEResearchGroup/CGM-JEPA) | 2026-09-09 |
 | [**GluFormer**](docs/models/cgm_models.md#gluformer) | Pheno.AI / 魏茨曼 / NVIDIA | Nature 2026 | CGM 血糖 | GPT 式因果自回归（135M） | 10,812 人 (>1000 万读数) | [论文](https://www.nature.com/articles/s41586-025-08639-6) · [代码](https://github.com/Guylu/GluFormer) · 权重需申请 | 2026-09-08 |
 | [**CGMformer**](docs/models/cgm_models.md#cgmformer) | 中科院 / 上海六院 | NSR 2025 | CGM 血糖 | BERT 式 MLM 掩码重构（0.85M～10M） | 5.9 万人 (131 万天) | [论文](https://doi.org/10.1093/nsr/nwaf082) · [代码](https://github.com/YurunLu/CGMformer) · [权重](https://github.com/YurunLu/CGMformer) | 2026-09-08 |
 | [**CGM-LSM**](docs/models/cgm_models.md#cgm-lsm) | JHU CDHAI | arXiv 2024 | CGM 血糖 | GPT-2 自回归（约 124M） | 592 人 (1600 万读数) | [论文](https://arxiv.org/abs/2412.09727) · [代码](https://github.com/JHU-CDHAI/cgmlsm) | 2026-09-08 |
@@ -136,18 +136,18 @@
 | [**SleepFM / SleepFM-2**](docs/models/sleep_models.md#sleepfm) | 斯坦福大学 / DTU / BrainCapture | Nat Med 2024 / arXiv 2026 | 多导睡眠监测 (EEG, ECG, PPG, Resp, EMG) | 留一对比学习 (LOO-CL) + 局部 MAE 重构（2.57M (v2)） | 200+ 万小时 / 23.5 万受试者 | [论文](https://arxiv.org/abs/2609.06849) · [代码](https://github.com/zou-group/sleepfm-v2-public) · [权重](https://github.com/zou-group/sleepfm-v2-public) | 2026-10-12 |
 | [**SleepMaMi**](docs/models/sleep_models.md#sleepmami) | 首尔大学 | ICML 2026 | 多导睡眠监测 (EEG, ECG, Resp) | 宏微观分层双编码器 + 人口统计学引导对比（约 15M） | 15.8 万小时 / 2.0 万受试者 | [论文](https://arxiv.org/abs/2605.15852) · [代码](https://github.com/SNU-SPL/SleepMaMi) | 2026-10-12 |
 | [**U-Sleep**](docs/models/sleep_models.md#u-sleep) | 哥本哈根大学 | npj Digit Med 2021 | 睡眠脑电与眼电 (EEG, EOG) | 1D 全卷积深层 U-Net（约 3.1M） | 约 1.5 万小时多中心临床 PSG | [论文](https://doi.org/10.1038/s41746-021-00440-5) · [代码](https://github.com/perslev/U-Sleep) · [权重](https://github.com/perslev/U-Sleep) | 2026-10-12 |
-| [**WearableQA**](docs/models/health_reasoning_llms.md#wearableqa) | Meta AI / Reality Labs | arXiv 2026 | 长程多模态聚合指标 (16 维时序 + 17 维化验) | 解耦评测基准 (数据计算推理 + 健康机制推理) | 200 人 × 500 天长程穿戴数据 (4,084 道推理题) | [论文](https://arxiv.org/abs/2609.05405) | 2026-10-12 |
+| [**WearableQA**](docs/models/health_reasoning_llms.md#wearableqa) | Meta AI / Reality Labs | arXiv 2026 | 长程多模态聚合指标 (16 维时序 + 17 维化验) | 解耦评测基准 (数据计算推理 + 健康机制推理) | 200 人 × 500 天长程穿戴数据 (4,084 道推理题) | [论文](https://arxiv.org/abs/2609.05405) · [代码](https://github.com/facebookresearch/WearableQA) · [权重](https://huggingface.co/datasets/facebook/WearableQA) | 2026-10-12 |
 | [**HEARTS**](docs/models/health_reasoning_llms.md#hearts) | Yang AI Lab | ICML 2026 | 全谱系 20 种生理模态 (ECG, EEG, PPG, CGM 等) | 四层认知能力阶梯评测 + CodeAct 工具调用 | 16 个开源数据集 / 110 项任务 / 20,226 评测样本 | [论文](https://arxiv.org/abs/2603.06638) · [代码](https://github.com/yang-ai-lab/HEARTS) | 2026-10-12 |
 | [**CBPM-LLaMA**](docs/models/health_reasoning_llms.md#cbpm-llama) | 中科院深圳先进院 / 香港理工大学 | ACM-BCB '24 | ECG + PPG (31 维血流动力学先验特征) | 血流动力学解耦 Prompt + LLaMA 指令微调（8B） | CAS-BP (1,272 受试者无袖带血压队列) | [论文](https://arxiv.org/abs/2406.18069) · [代码](https://github.com/zdzdliu/CAS-BP) | 2026-10-12 |
 | [**GEM**](docs/models/health_reasoning_llms.md#gem) | 北京大学 / 新加坡国立大学 | NeurIPS 2025 | 12 导联 ECG (1D 波形 + 2D 心电报告图) | 双编码器 + 波形参数物理锚定 (ECG-Grounding)（7B 级） | PTB-XL, Chapman, Ningbo 等多源临床心电 | [论文](https://arxiv.org/abs/2503.06073) · [代码](https://github.com/lanxiang1017/GEM) | 2026-10-12 |
-| [**RisQ**](docs/models/universal_health_models.md#risq) | TUM / Helmholtz / Harvard | 2026 | 全基因组 + 生化 + EHR + 穿戴 | 统一跨模态共享潜在表征 | 74.5 万人 (UKB + All of Us) | [论文](https://doi.org/10.64898/2026.07.07.26357373) | 2026-09-20 |
+| [**RisQ**](docs/models/universal_health_models.md#risq) | TUM / Helmholtz / Harvard | 2026 | 全基因组 + 生化 + EHR + 穿戴 | 统一跨模态共享潜在表征 | 74.5 万人 (UKB + All of Us) | [论文](https://doi.org/10.64898/2026.07.07.26357373) · 闭源 | 2026-09-20 |
 | [**TimesFM**](docs/models/general_tsfm.md#timesfm) | Google Research | ICML 2024 | 通用一维时序 | 纯解码器自回归 (Decoder-Only) + 连续 Patch（200M / 500M） | 1000 亿+ 时间点 (Google Trends, Wikipedia 等) | [论文](https://arxiv.org/abs/2310.10688) · [代码](https://github.com/google-research/timesfm) · [权重](https://huggingface.co/google/timesfm-1.0-200m) | 2026-10-12 |
 | [**Chronos / Chronos-Bolt**](docs/models/general_tsfm.md#chronos) | Amazon Web Services (AWS) | ICML 2024 | 通用一维时序 | 离散分箱量化 (4096 Bins) + T5 语言模型迁移（20M - 710M） | 多领域公开时序 + 合成高斯过程数据 | [论文](https://arxiv.org/abs/2403.07815) · [代码](https://github.com/amazon-science/chronos-forecasting) · [权重](https://huggingface.co/amazon/chronos-t5-base) | 2026-10-12 |
 | [**MOMENT**](docs/models/general_tsfm.md#moment) | Carnegie Mellon University (Auton Lab) | ICML 2024 | 通用多变量时序 (含生理信号) | 连续值分块掩码自编码 (Patch-MAE) + 通道独立（385M (Large)） | Time-series Pile (13 领域公开时序, 含 ECG/PPG/EEG) | [论文](https://arxiv.org/abs/2402.04385) · [代码](https://github.com/moment-timeseries-foundation-model/moment) · [权重](https://huggingface.co/AutonLab/MOMENT-1-large) | 2026-10-12 |
 | [**Mantis**](docs/models/general_tsfm.md#mantis) | 华为诺亚方舟实验室 / Inria | ICML 2026 | 通用多变量时序 | 自适应卷积分块 (TGU) + 轻量 ViT-1D 对比学习（约 8M） | 多样化公开时序基准 (UCR/UEA) | [论文](https://arxiv.org/abs/2502.15637) · [代码](https://github.com/vfeofanov/mantis) · [权重](https://huggingface.co/paris-noah/Mantis-8M) | 2026-10-12 |
 | [**MOIRAI**](docs/models/general_tsfm.md#moirai) | Salesforce AI Research | ICML 2024 | 通用多变量时序 | 多尺寸分块 + 任意变量掩码注意力 (Any-Variate)（14M - 311M） | LOTSA 数据集 (270 亿观测值) | [论文](https://arxiv.org/abs/2402.02592) · [代码](https://github.com/SalesforceAIResearch/uni2ts) · [权重](https://huggingface.co/Salesforce/moirai-1.0-R-base) | 2026-10-12 |
-| [**Timestral**](docs/models/general_tsfm.md#timestral) | Mistral AI | 2026 | 通用单/多变量时序 | 解耦预测跨度 (DHF) + 21 分位数概率预测（5M - 209M） | 大规模多领域时序语料 | [代码](https://github.com/mistralai/timestral) · [权重](https://huggingface.co/mistralai/Timestral-209M) | 2026-10-26 |
-| [**Kumo-Forecast**](docs/models/general_tsfm.md#kumo-forecast) | NVIDIA | 2026 | 通用多变量时序 / 结构化数据 | 冻结 MOMENT + DARR 时序检索增强与原生可解释层（约 340M） | 企业级多变量时序与结构化数据集 | [代码](https://github.com/NVIDIA/Kumo-TS) · [权重](https://huggingface.co/nvidia/Kumo-Forecast) | 2026-10-26 |
+| [**Timestral**](docs/models/general_tsfm.md#timestral) | Mistral AI | 2026 | 通用单/多变量时序 | 解耦预测跨度 (DHF) + 21 分位数概率预测（5M - 209M） | 大规模多领域时序语料 | [报告](https://mistral.ai/news/timestral/) · [代码](https://github.com/mistralai/timestral) · [权重](https://huggingface.co/mistralai/Timestral-209M) | 2026-10-26 |
+| [**Kumo-Forecast**](docs/models/general_tsfm.md#kumo-forecast) | NVIDIA | 2026 | 通用多变量时序 / 结构化数据 | 冻结 MOMENT + DARR 时序检索增强与原生可解释层（约 340M） | 企业级多变量时序与结构化数据集 | [报告](https://developer.nvidia.com/blog/advancing-tabular-and-time-series-ai-with-nvidia-kumo/) · [代码](https://github.com/NVIDIA/Kumo-TS) · [权重](https://huggingface.co/nvidia/Kumo-Forecast) | 2026-10-26 |
 | [**TimeBraid**](docs/models/general_tsfm.md#timebraid) | UC San Diego / USC / Aether AI | arXiv 2026 | 时序数值 + 自然语言文本 | 双塔深度交错残差注意力 (MoT) + 统一 Prompt（1.2B - 6.7B） | 跨模态时序-语言对齐数据集 | [论文](https://arxiv.org/abs/2609.29792) · [代码](https://github.com/Aether-AI/TimeBraid) | 2026-10-12 |
 | [**Time-LLM**](docs/models/general_tsfm.md#time-llm) | Monash / 蚂蚁集团 / HKUST | ICLR 2024 | 通用一维时序 | 文本原型跨注意力重编程 + 提示词前缀增强（冻结 7B LLM (微调 <1%)） | 多领域通用时序基准 (M4, ETT 等) | [论文](https://arxiv.org/abs/2310.01728) · [代码](https://github.com/KimMeen/Time-LLM) | 2026-10-12 |
 
